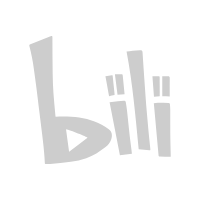
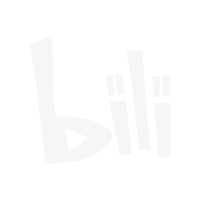
v2

Changed region(s): [[0.15, 0.18, 0.87, 0.84]]

diff --git a/index.html b/index.html
@@ -104,7 +104,7 @@
                   	<!-- Bilibili -->
                     <li class="navigation__item">
                       <a href="https://space.bilibili.com/18936431" target="_blank">
-                      	<img src="images/bili1.png" height="23">
+                      	<img src="images/bili.png" height="23">
                         <span class="label">Bilibili</span>
                       </a>
                     </li>
